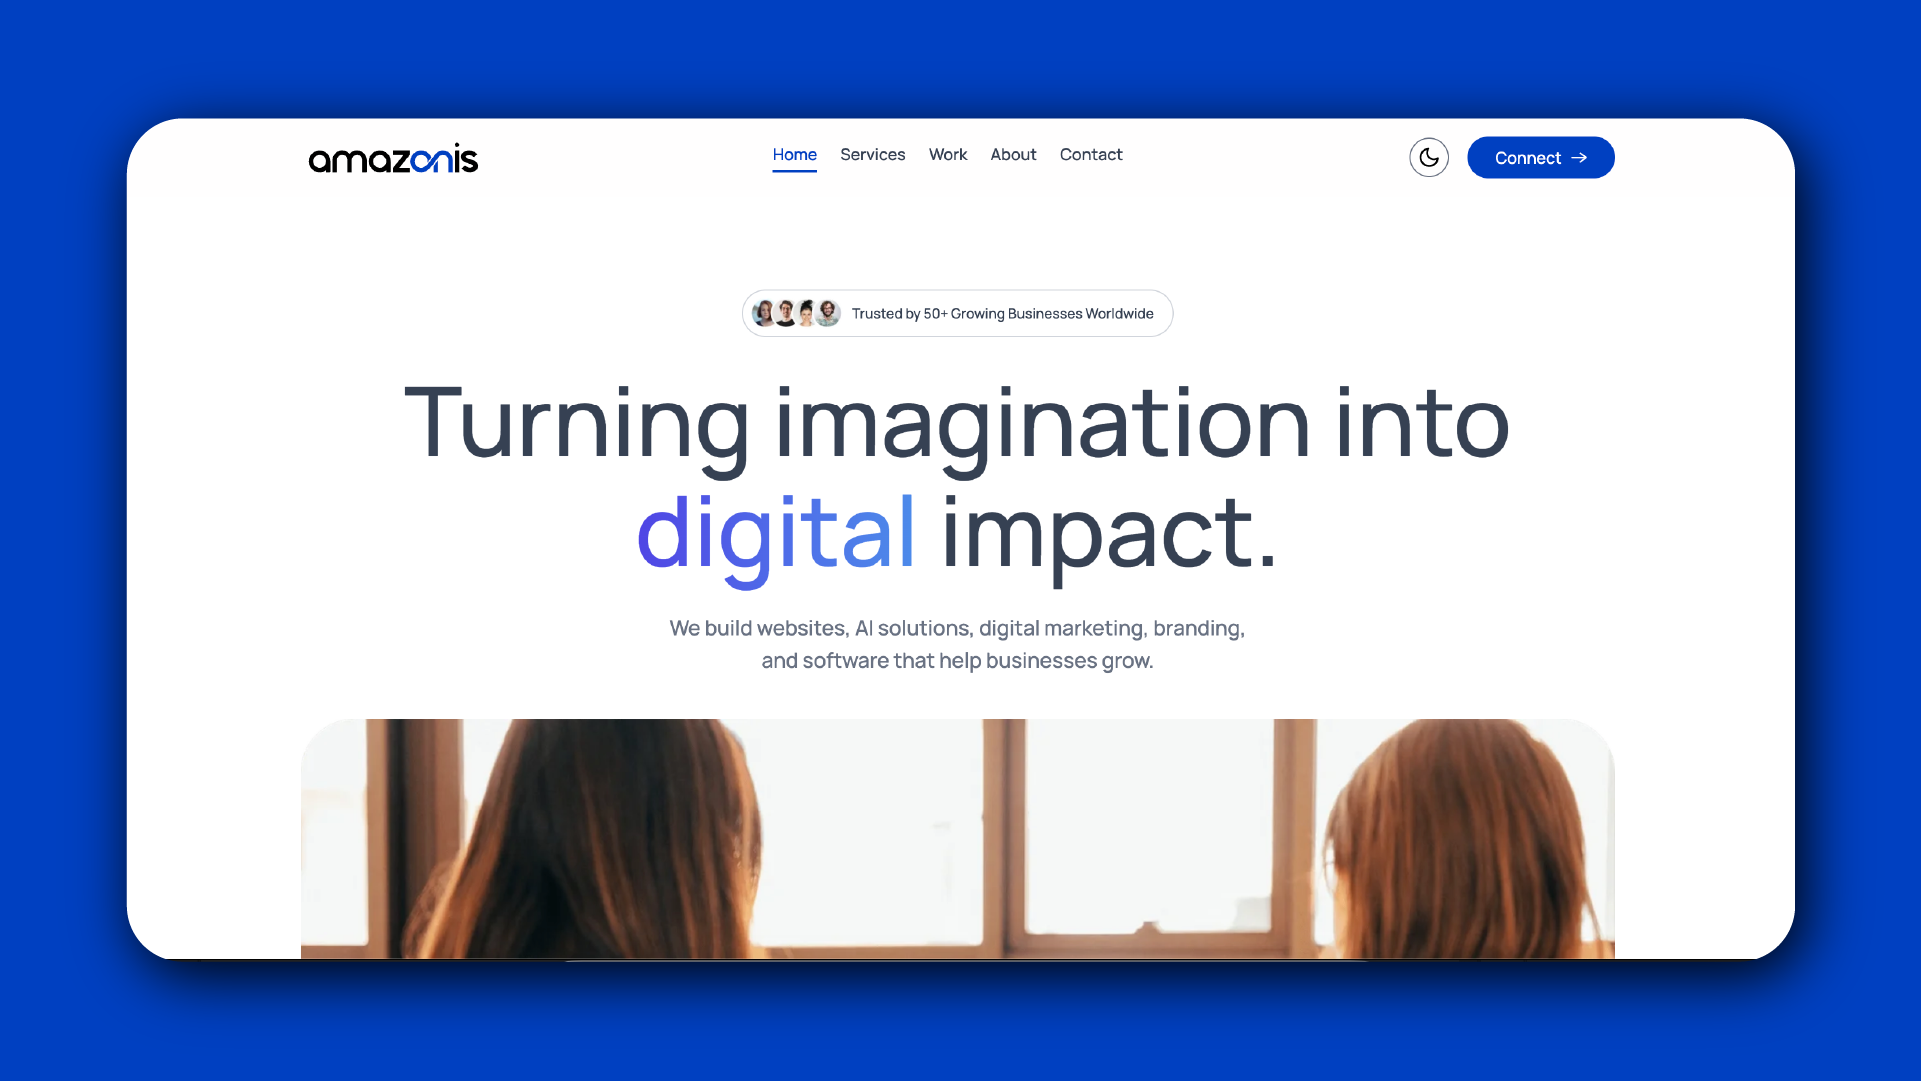
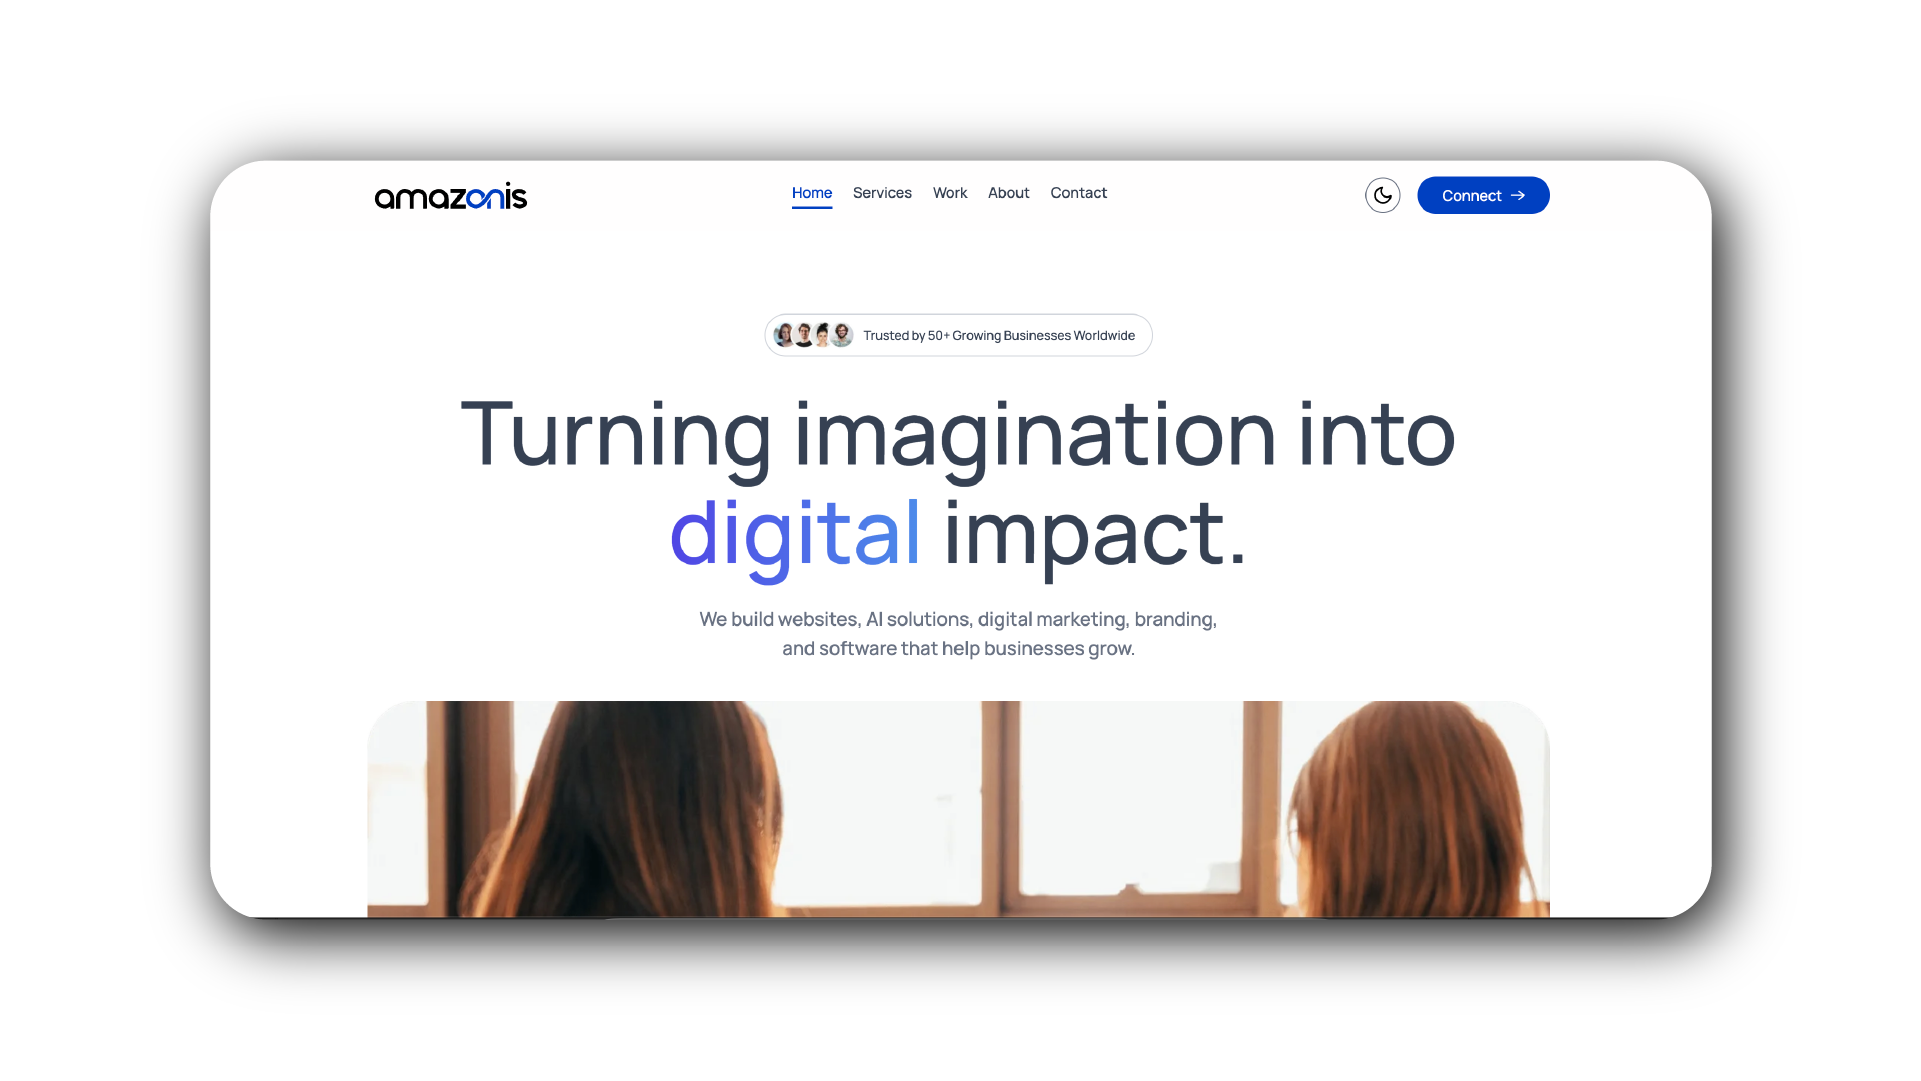
Update featured work landing visuals

diff --git a/src/components/WorkPage.jsx b/src/components/WorkPage.jsx
@@ -6,13 +6,39 @@ const categories = ['All projects', 'Web & SaaS', 'Mobile apps', 'AI & automatio
 
 const projects = [
   {
-    title: 'Slour Mobile Experience',
-    category: 'Mobile apps',
-    image: assets.slour_landing_page,
-    logo: assets.slour_logo,
+    title: 'Venuefy Event Platform',
+    category: 'Web & SaaS',
+    image: assets.venuefy_landing_page,
     layout: 'lg:col-span-8',
     ratio: 'aspect-[16/10]',
-    surface: 'from-[#dbe8ff] via-white to-[#a9c7ff]',
+    surface: 'from-[#fff3e9] via-white to-[#dbe8ff]',
+    position: 'object-center',
+  },
+  {
+    title: 'Slour Scheduler',
+    category: 'Web & SaaS',
+    image: assets.slour_landing_page,
+    layout: 'lg:col-span-4',
+    ratio: 'aspect-[4/5]',
+    surface: 'from-[#fff3f3] via-white to-[#ffd5d5]',
+    position: 'object-center',
+  },
+  {
+    title: '3D Wisdom Visualization',
+    category: 'Web & SaaS',
+    image: assets.three_d_landing_page,
+    layout: 'lg:col-span-4',
+    ratio: 'aspect-[4/5]',
+    surface: 'from-[#e8e4df] via-white to-[#c9c0b8]',
+    position: 'object-center',
+  },
+  {
+    title: 'Amazonis Digital Experience',
+    category: 'Web & SaaS',
+    image: assets.amazonis_landing_page,
+    layout: 'lg:col-span-8',
+    ratio: 'aspect-[2/1]',
+    surface: 'from-[#e5edff] via-white to-[#b7ccff]',
     position: 'object-center',
   },
   {
@@ -23,16 +49,6 @@ const projects = [
     layout: 'lg:col-span-4',
     ratio: 'aspect-[4/5]',
     surface: 'from-[#e8efff] via-[#cfdcff] to-[#98b5ff]',
-    position: 'object-center',
-  },
-  {
-    title: 'Venuefy Event Platform',
-    category: 'Web & SaaS',
-    image: assets.venuefy_landing_page,
-    logo: assets.venuefy_logo,
-    layout: 'lg:col-span-4',
-    ratio: 'aspect-[4/5]',
-    surface: 'from-[#fff3e9] via-white to-[#dbe8ff]',
     position: 'object-center',
   },
   {
@@ -51,15 +67,6 @@ const projects = [
     layout: 'lg:col-span-4',
     ratio: 'aspect-[4/5]',
     surface: 'from-[#dfe8ff] via-[#f5f8ff] to-[#b6c9ff]',
-    position: 'object-center',
-  },
-  {
-    title: 'Amazonis Digital Experience',
-    category: 'Web & SaaS',
-    image: assets.amazonis_landing_page,
-    layout: 'lg:col-span-8',
-    ratio: 'aspect-[2/1]',
-    surface: 'from-[#e5edff] via-white to-[#b7ccff]',
     position: 'object-center',
   },
   {

diff --git a/src/assets/assets.js b/src/assets/assets.js
@@ -21,6 +21,7 @@ import work_dashboard_management from './work_dashboard_management.png'
 import slour_landing_page from './slour_landing_page.webp'
 import venuefy_landing_page from './venuefy_landing_page.webp'
 import amazonis_landing_page from './amazonis_landing_page.webp'
+import three_d_landing_page from './three_d_landing_page.webp'
 import email_icon from './email_icon.svg'
 import person_icon from './person_icon.svg'
 import facebook_icon from './facebook_icon.svg'
@@ -71,6 +72,7 @@ const assets = {
   slour_landing_page,
   venuefy_landing_page,
   amazonis_landing_page,
+  three_d_landing_page,
   email_icon,
   person_icon,
   facebook_icon,
